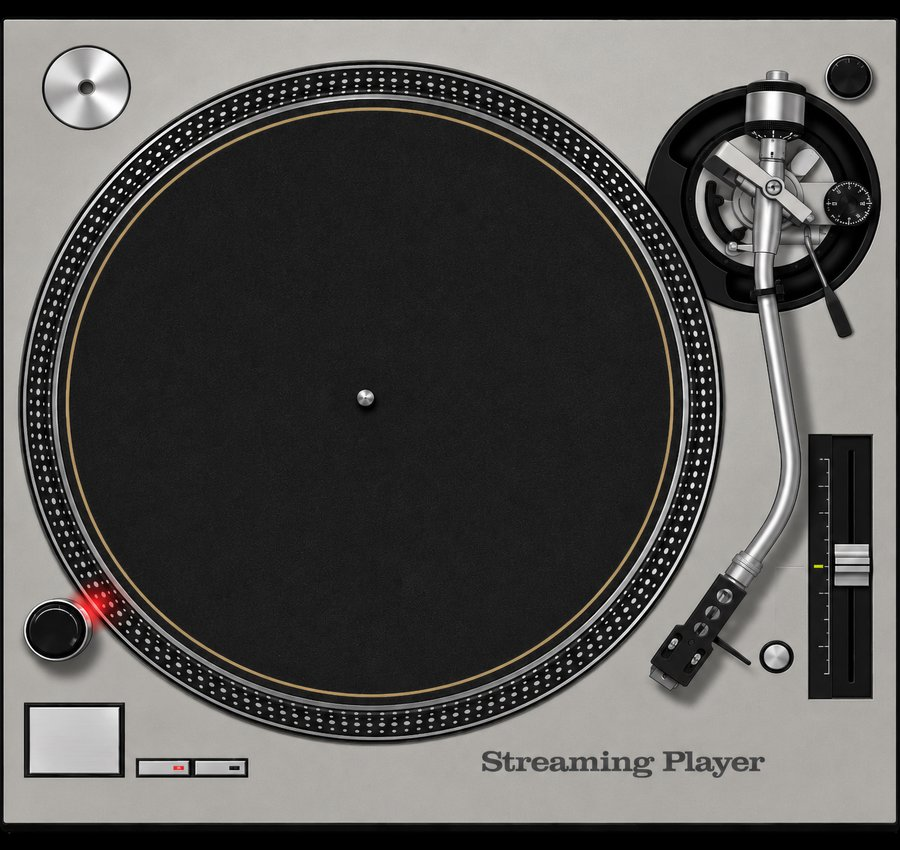
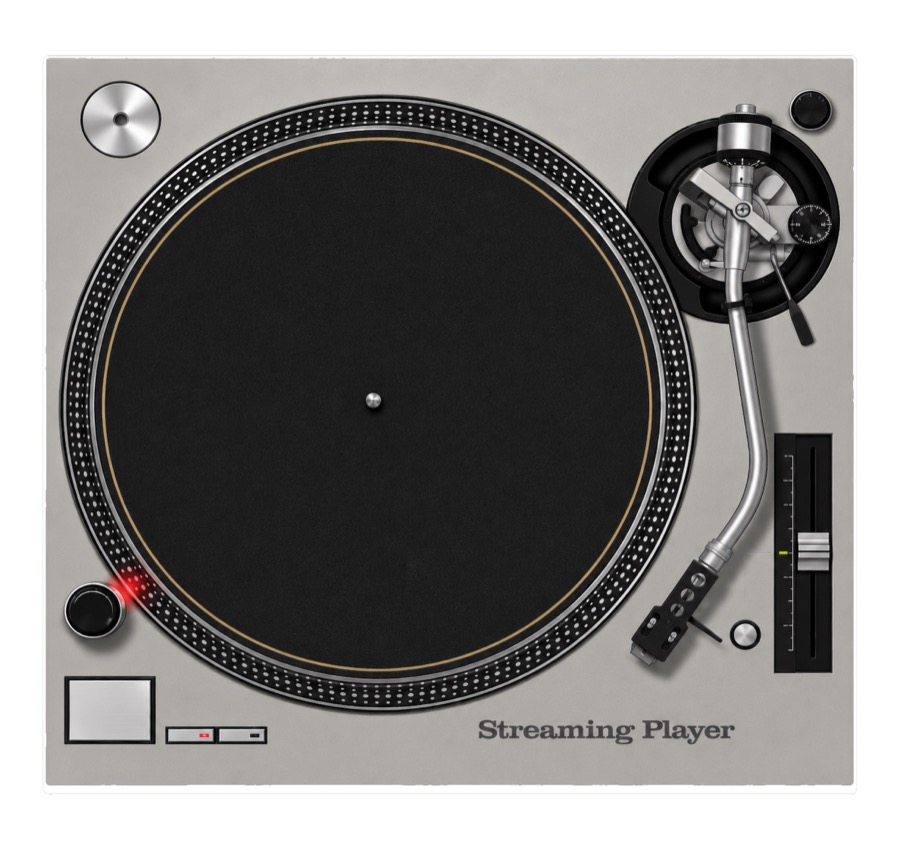
Use smaller turntable photo and add flip-onto-platter animation
Swap in Schallplattenspieler 2.jpg (less zoomed in) for the platter
background, inset it a bit further so the machine reads smaller in
the card, and animate the cover art with a rotateY flip as it lands
on the platter before it starts spinning.

diff --git a/css/style.css b/css/style.css
@@ -403,6 +403,7 @@ section {
   flex-shrink: 0;
   box-shadow: 0 10px 24px rgba(43,42,40,0.05);
   transition: box-shadow 0.4s ease;
+  perspective: 900px;
 }
 
 .cover-disc:active { transform: scale(0.98); }
@@ -419,11 +420,14 @@ section {
 }
 
 /* real turntable-machine photo (plinth, real platter, tonearm, pitch fader) */
+/* inset a bit so the machine reads smaller within the card, with some   */
+/* breathing room around it instead of bleeding to the edges.            */
 .cover-disc__platter {
   position: absolute;
-  inset: 0;
-  width: 100%;
-  height: 100%;
+  inset: 5%;
+  width: 90%;
+  height: 90%;
+  border-radius: 6px;
   object-fit: cover;
   opacity: 0;
   transition: opacity 0.4s ease;
@@ -434,8 +438,8 @@ section {
 .cover-disc.is-playing .cover-disc__platter { opacity: 1; }
 
 /* the actual song cover — fills the square at rest; once playing it   */
-/* shrinks into a round label sitting exactly on the photo's platter   */
-/* and spins in place. */
+/* flips over like a record and lands as a round label on the photo's  */
+/* platter, then spins in place.                                       */
 .cover-art {
   position: absolute;
   inset: 0;
@@ -444,20 +448,26 @@ section {
   object-fit: cover;
   display: block;
   z-index: 1;
-  transition: top 0.55s var(--ease-spring), left 0.55s var(--ease-spring),
-              width 0.55s var(--ease-spring), height 0.55s var(--ease-spring),
-              border-radius 0.55s var(--ease-spring);
+  transition: top 0.65s var(--ease-spring), left 0.65s var(--ease-spring),
+              width 0.65s var(--ease-spring), height 0.65s var(--ease-spring),
+              border-radius 0.65s var(--ease-spring);
 }
 
 .cover-disc.is-playing .cover-art {
-  top: 46.5%;
-  left: 40%;
-  width: 80%;
-  height: 80%;
+  top: 46.9%;
+  left: 41%;
+  width: 72%;
+  height: 72%;
   border-radius: 50%;
-  transform: translate(-50%, -50%);
   box-shadow: 0 0 0 1px rgba(255,255,255,0.15), 0 4px 14px rgba(0,0,0,0.5);
-  animation: spinCover 8s linear infinite;
+  animation: flipOntoPlatter 0.65s var(--ease-spring) forwards,
+             spinCover 8s linear 0.65s infinite;
+}
+
+@keyframes flipOntoPlatter {
+  0%   { transform: translate(0, 0) rotateY(0deg) scale(1); }
+  45%  { transform: translate(-25%, -25%) rotateY(150deg) scale(0.8); }
+  100% { transform: translate(-50%, -50%) rotateY(360deg) scale(1); }
 }
 
 /* --- Seek bar (under the disc) --- */
